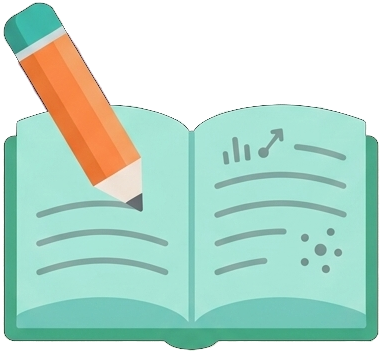
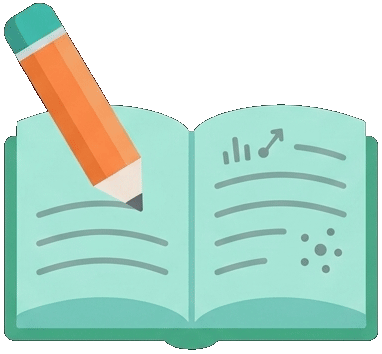
Optimize app and illustration assets

diff --git a/src/constants/uiAssets.ts b/src/constants/uiAssets.ts
@@ -3,8 +3,7 @@ export const uiAssets = {
     icon: require('../../assets/app/icon.png'),
   },
   avatars: {
-    dinosaur: require('../../assets/ui/shared/avatar-dinosaur.png'),
-    user: require('../../assets/ui/shared/avatar-user.png'),
+    default: require('../../assets/ui/shared/avatar-user.png'),
   },
   dailyTask: {
     complete: require('../../assets/ui/daily-task/complete.png'),

diff --git a/src/features/profile/ProfileCard.tsx b/src/features/profile/ProfileCard.tsx
@@ -52,7 +52,9 @@ export function ProfileCard({
   textStrokeWidth,
 }: ProfileCardProps) {
   const styles = useThemedStyles(createStyles);
-  const avatarSource = avatarData ? { uri: avatarData } : uiAssets.avatars.user;
+  const avatarSource = avatarData
+    ? { uri: avatarData }
+    : uiAssets.avatars.default;
   const displayNameLines = splitDisplayName(displayName);
 
   return (

diff --git a/src/app/(tabs)/settings.tsx b/src/app/(tabs)/settings.tsx
@@ -41,7 +41,9 @@ export default function SettingsScreen() {
     }, [db]),
   );
 
-  const avatarSource = avatarData ? { uri: avatarData } : uiAssets.avatars.user;
+  const avatarSource = avatarData
+    ? { uri: avatarData }
+    : uiAssets.avatars.default;
 
   return (
     <GreenSheetScreen title="我的">

diff --git a/src/app/(tabs)/index.tsx b/src/app/(tabs)/index.tsx
@@ -82,7 +82,7 @@ export default function HomeScreen() {
   ];
   const avatarSource = avatarData
     ? { uri: avatarData }
-    : uiAssets.avatars.dinosaur;
+    : uiAssets.avatars.default;
 
   return (
     <SafeAreaView edges={['top']} style={styles.safeArea}>

diff --git a/docs/CURRENT_HANDOFF.md b/docs/CURRENT_HANDOFF.md
@@ -1,15 +1,15 @@
 # 当前交接
 
-最后更新：2026-10-20 20:35
+最后更新：2026-10-20 20:39
 
 ## 当前状态
 
 - 分支：`main`
-- 已提交基线：`97a2649 Add reproducible engineering quality gates`
-- 当前阶段：P2-5 依赖清理已完成自动验证，随本批提交
+- 已提交基线：`5235883 Remove unused document picker dependency`
+- 当前阶段：P2-4 资源优化已完成自动验证，随本批提交
 - P5：已按当前实现收口，不再返工视觉问题
 - P6：已完成代码、文档、资源、页面拆分、数据测试和最终一致性检查
-- 当前工作：已移除未使用的 `expo-document-picker`，并确认 Router 必需依赖
+- 当前工作：App 图标、favicon、启动图和页面插画已压缩，重复与废弃资源已删除
 - P6 不包含 EAS、APK、签名和发布
 
 ## 接手先做
@@ -44,8 +44,8 @@ git log --oneline --decorate -5
 ## 下一轮重构
 
 - 按 `F:\English vocabulary app\项目分析\App架构分析与重构指南.md` 的 P0 → P1 → P2 顺序推进。
-- P2-6、P2-5 已完成；下一批进入 P2-4 资源优化。
-- P2-1/P2-3 schema 清理必须等旧数据库和旧存档迁移方案明确后单独执行。
+- P2-6、P2-5、P2-4 已完成；下一批进入 P2-1/P2-2/P2-3 数据模型批次。
+- 数据模型批次必须先备份真实数据库，并补旧数据库、旧存档、新存档三向兼容测试。
 - 下一阶段不得回退统一导航入口和现有真机验收结果。
 
 ## P2-6 工程化门禁结果
@@ -69,6 +69,18 @@ git log --oneline --decorate -5
 - `npx expo install --check` 显示依赖全部匹配。
 - 已通过 `npm run check` 和 Android 离线导出。
 - `npm audit --omit=dev` 仍报告 30 个传递依赖审计项，来源为 Expo/Metro/Router；强制修复会要求 Expo 44 降级或 Router 58 跨大版本升级，本批不执行。
+
+## P2-4 资源优化结果
+
+- App 图标保持 1024 × 1024，并通过调色板压缩从约 906KB 降到 364KB。
+- favicon 从 1024 × 1024、约 906KB 调整为 64 × 64、约 3.5KB。
+- 启动图从 1024 × 1024、约 906KB 调整为 768 × 768、约 238KB。
+- 三张页面大插画从 120–161KB 压缩到 35–47KB，像素尺寸不变。
+- 删除 P5 已废弃的 `assets/app/android` adaptive 模板资源，保持 P5 收口的主图标方案。
+- 两个同哈希头像收敛为 `avatar-user.png`，`uiAssets` 统一暴露 `avatars.default`。
+- 资源总量从 3,291,233 字节降到 778,506 字节，减少 2,512,727 字节，约 76.3%。
+- 当前资源目录无重复哈希文件。
+- 已通过 `npm run check` 和 Android 离线导出。
 
 ## P0 批次 0-3 结果
 
@@ -284,10 +296,10 @@ QUALITY_AND_TECH_DEBT.md 和 P6_PROGRESS.md。
 git status --short --branch
 git log --oneline --decorate -5
 
-当前 P2-5 依赖清理已完成自动验证，等待随本批提交。
+当前 P2-4 资源优化已完成自动验证，等待随本批提交。
 请先读取重构指南和 CURRENT_HANDOFF 的最新批次记录，
 不要重新设计 P5 主题 UI，不要进入 EAS、APK、签名和发布流程，
 不要回滚用户已有修改。
 
-请先说明当前 Git 状态、P2 依赖验证结果和下一批边界。
+请先说明当前 Git 状态、P2 资源验证结果和下一批数据迁移风险。
 ```

diff --git a/docs/ASSETS.md b/docs/ASSETS.md
@@ -1,6 +1,6 @@
 # 资源规范
 
-最后更新：2026-10-19 18:26
+最后更新：2026-10-20 20:39
 
 ## 目录结构
 
@@ -9,14 +9,9 @@ assets/
 ├─ app/
 │  ├─ icon.png
 │  ├─ favicon.png
-│  ├─ splash-icon.png
-│  └─ android/
-│     ├─ adaptive-icon-background.png
-│     ├─ adaptive-icon-foreground.png
-│     └─ adaptive-icon-monochrome.png
+│  └─ splash-icon.png
 ├─ ui/
 │  ├─ shared/
-│  │  ├─ avatar-dinosaur.png
 │  │  └─ avatar-user.png
 │  ├─ navigation/
 │  │  ├─ home.png
@@ -75,6 +70,14 @@ uiAssets.wrongBook.reviewStart
 | 启动图 | PNG，由 `expo-splash-screen` 引用 |
 | CSV 模板 | 放在 `templates`，属于数据资源，不属于 UI |
 
+## 当前尺寸与压缩
+
+- App 图标：1024 × 1024，保留完整尺寸供系统图标和关于页使用。
+- favicon：64 × 64，只用于 web favicon。
+- 启动图：768 × 768，覆盖 3 倍屏下 220dp 显示宽度。
+- 页面大插画：256 色调色板 PNG，保持原始像素尺寸。
+- 小图标和头像：保持 256 × 256。
+
 ## 新增资源流程
 
 1. 确定资源属于 App、页面还是共享资源。
@@ -87,5 +90,8 @@ uiAssets.wrongBook.reviewStart
 ## 已清理内容
 
 - 删除了与错题回顾主素材哈希相同的重复图片。
+- 删除了 P5 已废弃的 Android adaptive 模板资源，桌面图标继续使用主图标。
+- 将同哈希的 `avatar-dinosaur.png` 与 `avatar-user.png` 收敛为唯一默认头像。
+- 对 App 图标、favicon、启动图和三张页面插画执行调色板压缩。
 - 删除了代码中未引用的 `book.svg`、`calendar.svg`、`import-info.svg` 和 `settings-archive.svg`。
 - 移除了 `f1`、`f3` 等历史阶段目录命名。

diff --git a/docs/QUALITY_AND_TECH_DEBT.md b/docs/QUALITY_AND_TECH_DEBT.md
@@ -1,6 +1,6 @@
 # 质量与技术债
 
-最后更新：2026-10-20 20:35
+最后更新：2026-10-20 20:39
 
 ## 当前质量门槛
 
@@ -80,6 +80,16 @@ npm run doctor
 - `npm audit --omit=dev` 当前仍报告 30 个传递依赖审计项：`braces`、`decode-uri-component`、`node-forge`、`uuid`，来源为 Expo/Metro/Router。
 - `npm audit fix --force` 会要求降级 Expo 44 或升级 Expo Router 58，均超出当前 SDK 57 兼容边界，禁止直接执行。
 - 后续依赖更新应等待同一 Expo SDK 内的上游修复，或单独立项做跨 SDK 升级和真机回归。
+
+### P2 已完成：资源优化
+
+- 资源总量减少 2,512,727 字节，约 76.3%。
+- App 图标保持 1024px；favicon 调整为 64px；启动图调整为 768px。
+- 三张页面插画执行 256 色调色板压缩，显示尺寸和宽高比保持不变。
+- 删除 P5 已废弃的 Android adaptive 模板目录。
+- 两个同哈希头像收敛为一个默认头像资源。
+- 重复资源哈希检查为零，Android 导出资源引用完整。
+- 资源视觉仍需在后续真机批次抽查图标、启动页和三张插画。
 
 ### 已解决：P0 数据与任务主链路
 

diff --git a/docs/PHASE_HISTORY.md b/docs/PHASE_HISTORY.md
@@ -1,6 +1,6 @@
 # 阶段历史
 
-最后更新：2026-10-20 20:35
+最后更新：2026-10-20 20:39
 
 ## F 阶段
 
@@ -59,6 +59,7 @@
 |---|---|---|---|
 | P2-6 | 本轮提交 | 自动验证通过 | Prettier、Node 22.5+、覆盖率阈值、GitHub Actions、Expo Doctor |
 | P2-5 | 本轮提交 | 自动验证通过 | 移除未使用的 `expo-document-picker`，确认 Router 与 web 必需依赖 |
+| P2-4 | 本轮提交 | 自动验证通过 | 图标与插画压缩、去重头像、移除废弃 adaptive 模板资源 |
 
 ## 关键决策
 
